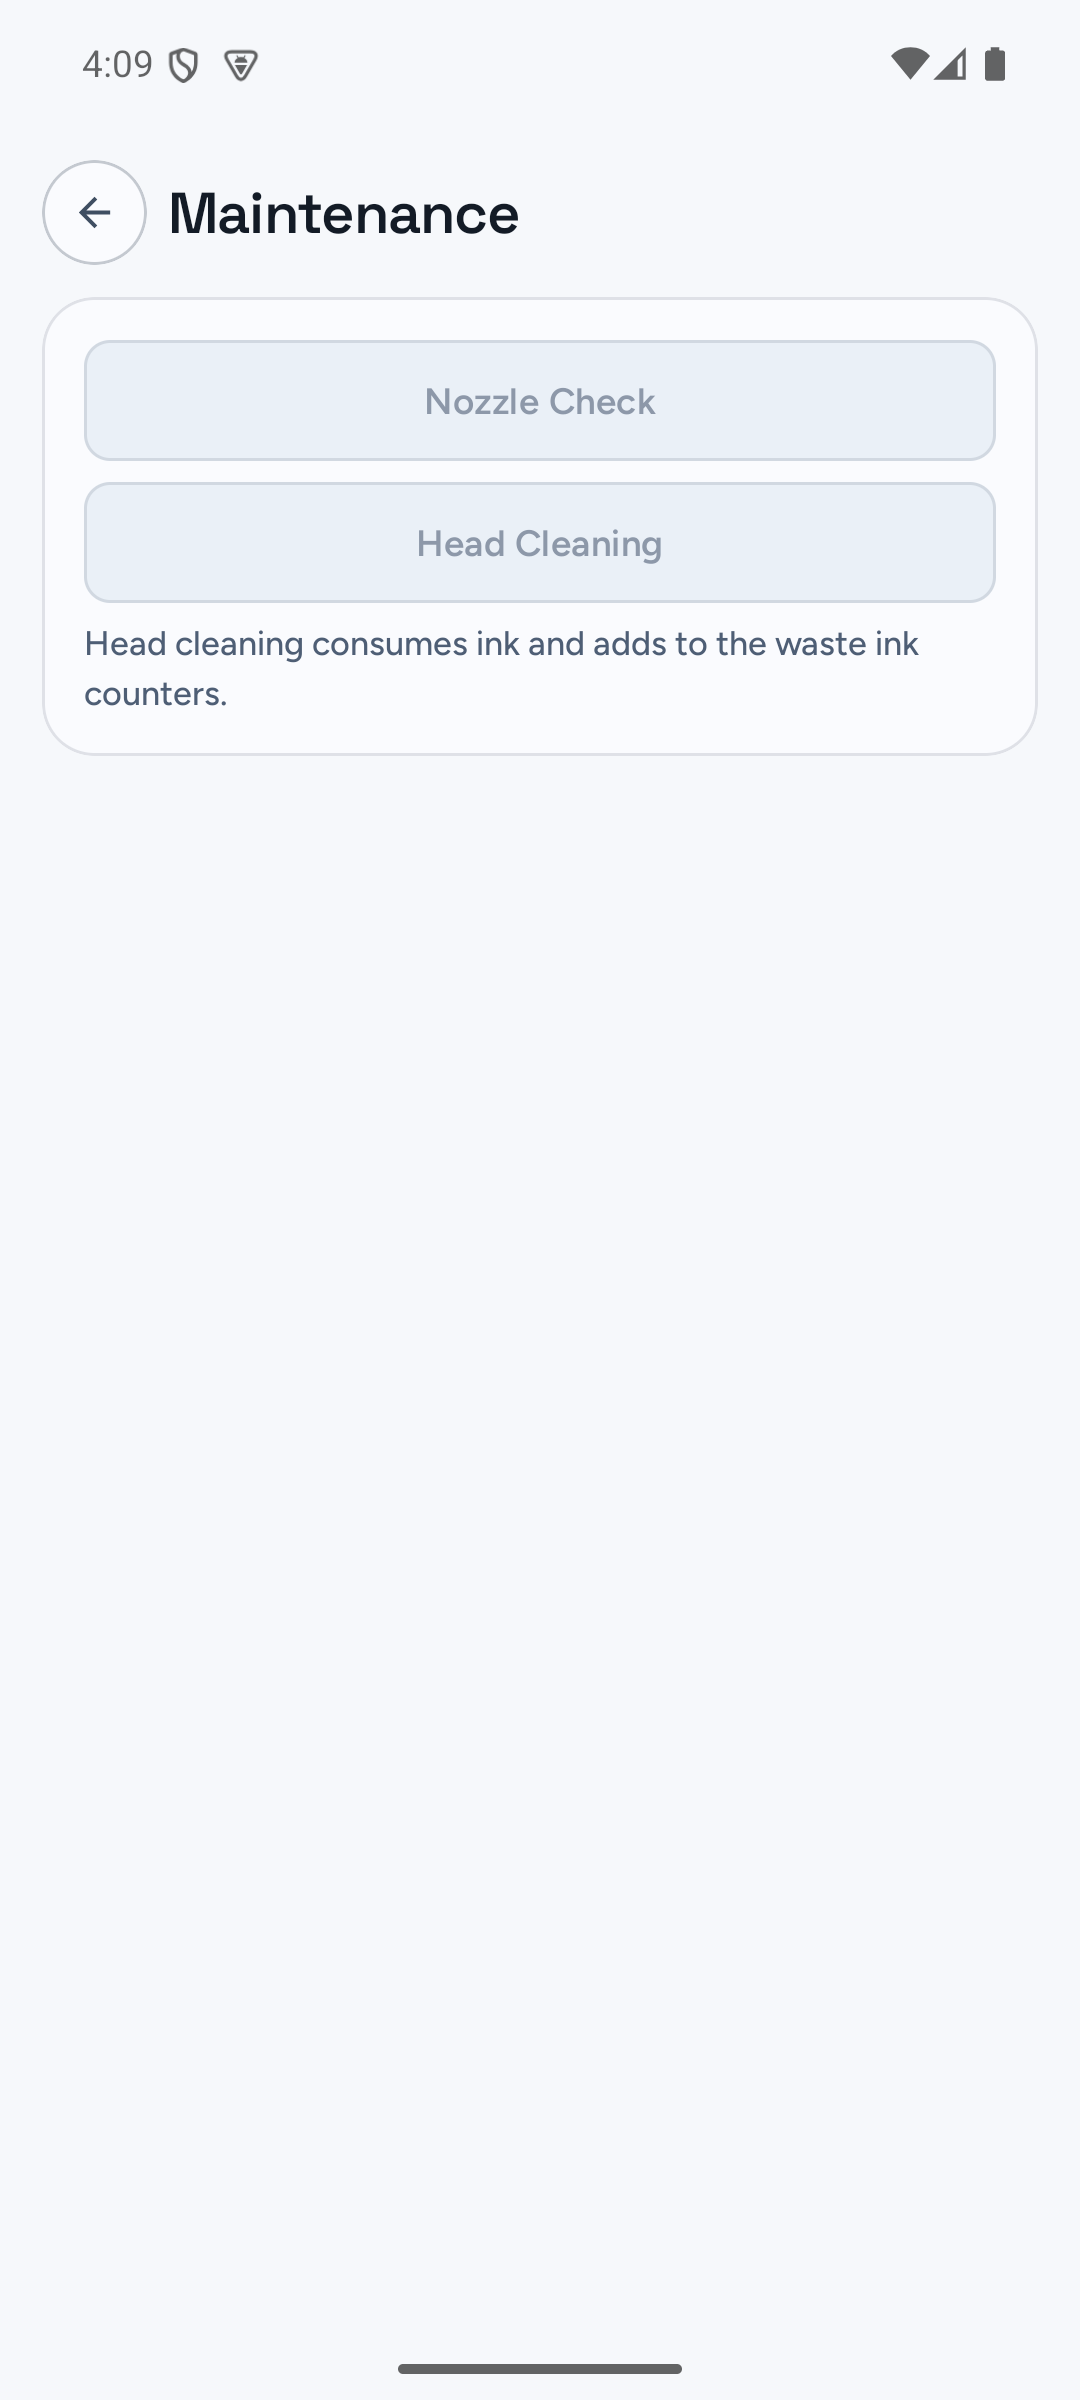
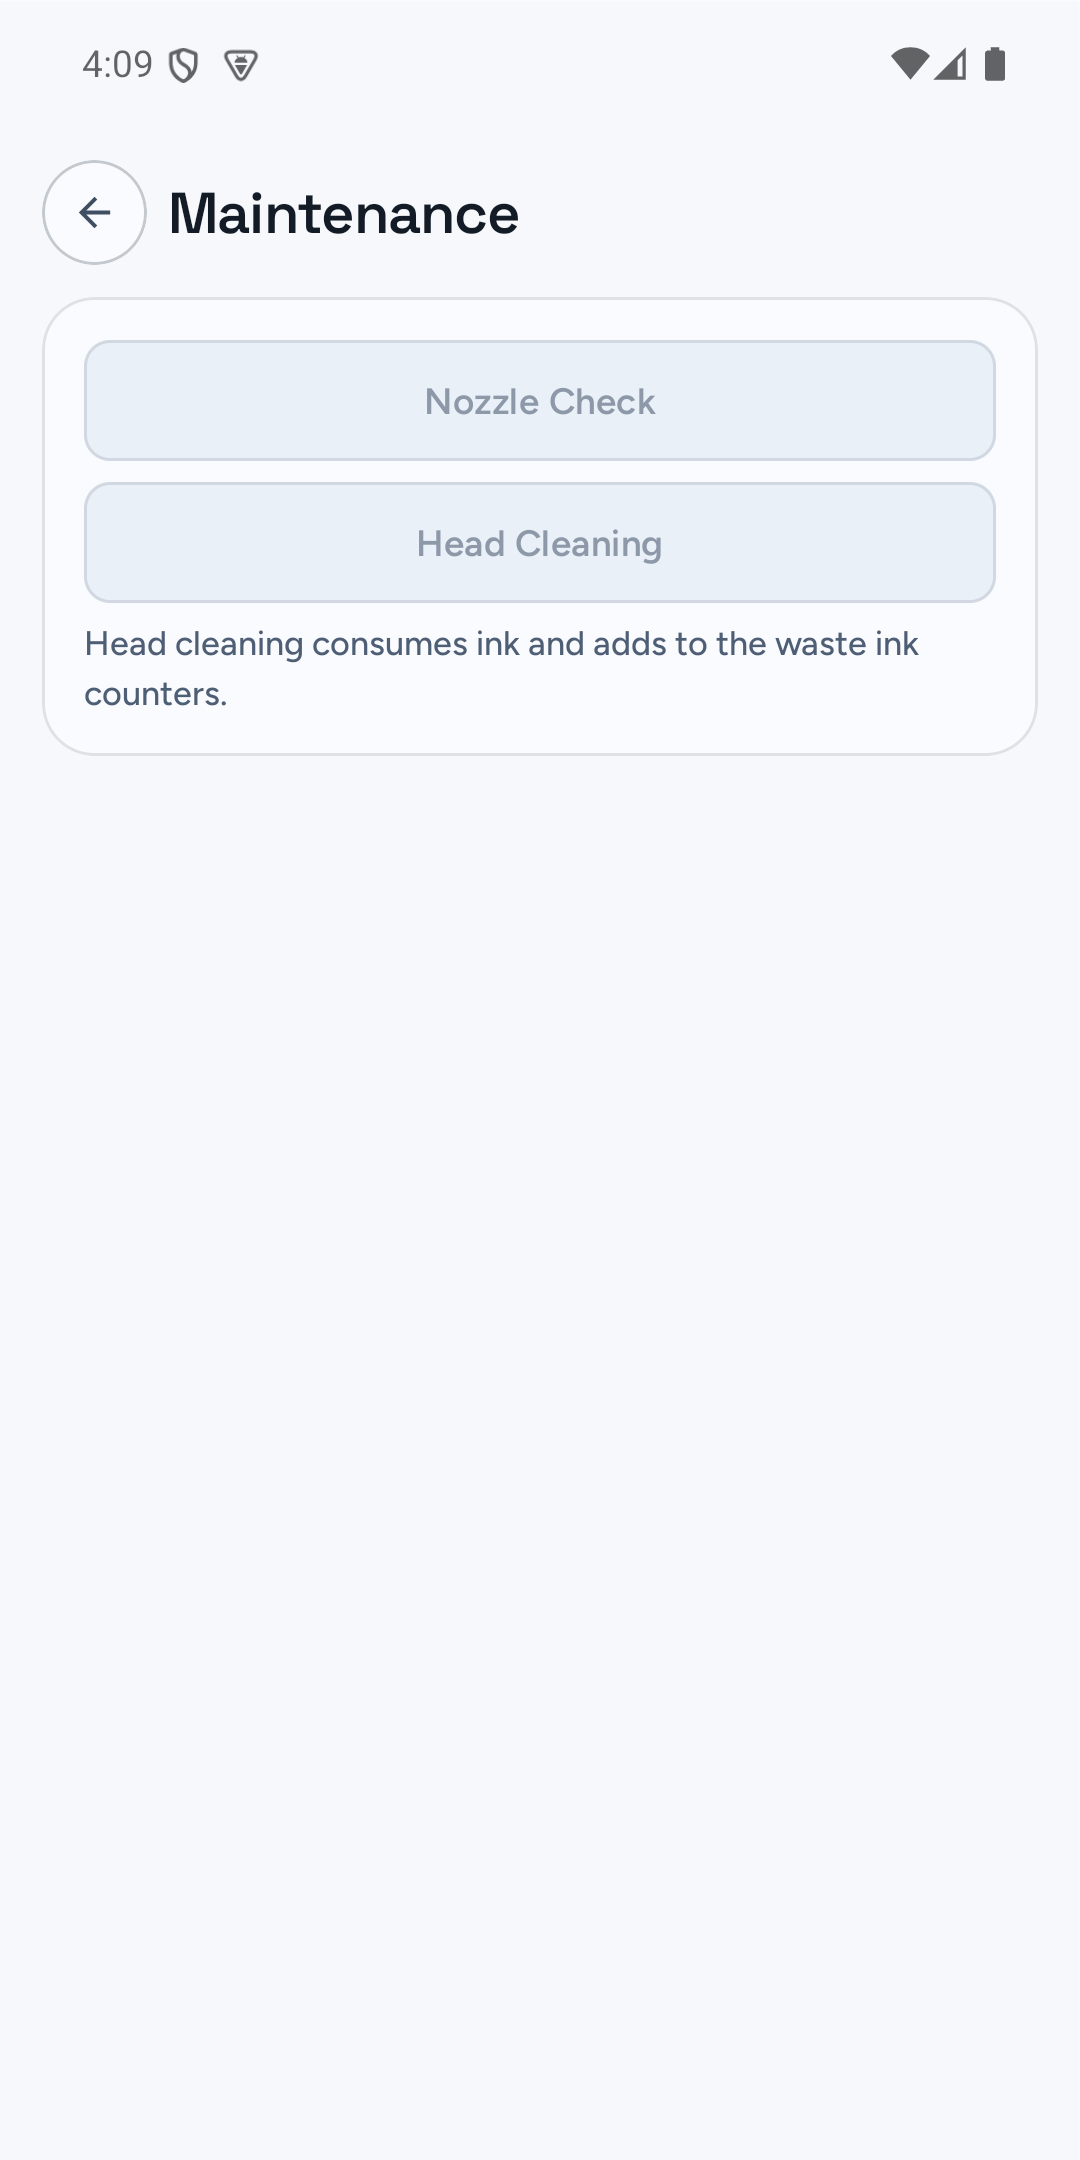
Fix the store listing assets, and move their sources into place
The feature graphic was an 8-bit palette PNG. Play asks for JPEG or a 24-bit PNG
with no alpha, so it was re-exported as RGB.

The phone screenshots were 1080x2400, which is 2.22:1. Play's hard limit is 2:1 -
the long side cannot exceed twice the short side, and the 16:9 in most guides is
a recommendation rather than the rule that is enforced. The Console rejects them
at upload. Re-cut to 1080x2160, which is exactly 2:1, and flattened from RGBA to
RGB: they were fully opaque, so the alpha channel was carrying nothing.

The two SVG sources moved from `assets/` at the module root to
`play-store/source/`. The old name was a trap. In an Android project `assets/`
means "this is packaged into the APK", and at the module root it reads that way
even though AGP ignores it - only `app/src/main/assets/` is a source set. It also
collided with the README's own shorthand, which writes `assets/devices.xml` for
`app/src/main/assets/devices.xml`: one name for two different things. Verified
before moving that nothing referenced them.

They are kept, and kept apart from the PNGs they generate, so that `play-store/`
holds only files meant for upload and there is nothing to guess at. The SVGs are
the only editable originals - the feature graphic's wordmark is text converted to
outlines and cannot be rebuilt by hand - and the PNGs are opaque.

The README's Project Structure section never listed `play-store` or `docs`. Both
[…]

diff --git a/README.md b/README.md
@@ -304,6 +304,14 @@ fix.
   Generated models that only reinkpy has
 - `scripts/sync-model-data.mjs`
   Cross-checks the two sources, then regenerates both generated assets
+- `play-store`
+  What gets uploaded to the Play listing: the 512×512 icon, the 1024×500 feature
+  graphic and the phone screenshots. The editable originals live in
+  `play-store/source` rather than beside them, so the folder holds only files
+  that are meant to be uploaded and there is nothing to guess at
+- `docs`
+  The GitHub Pages site, and the privacy policy URL the Play listing points at.
+  Plain HTML with no build step, so what is committed is what is served
 
 ## Build
 
